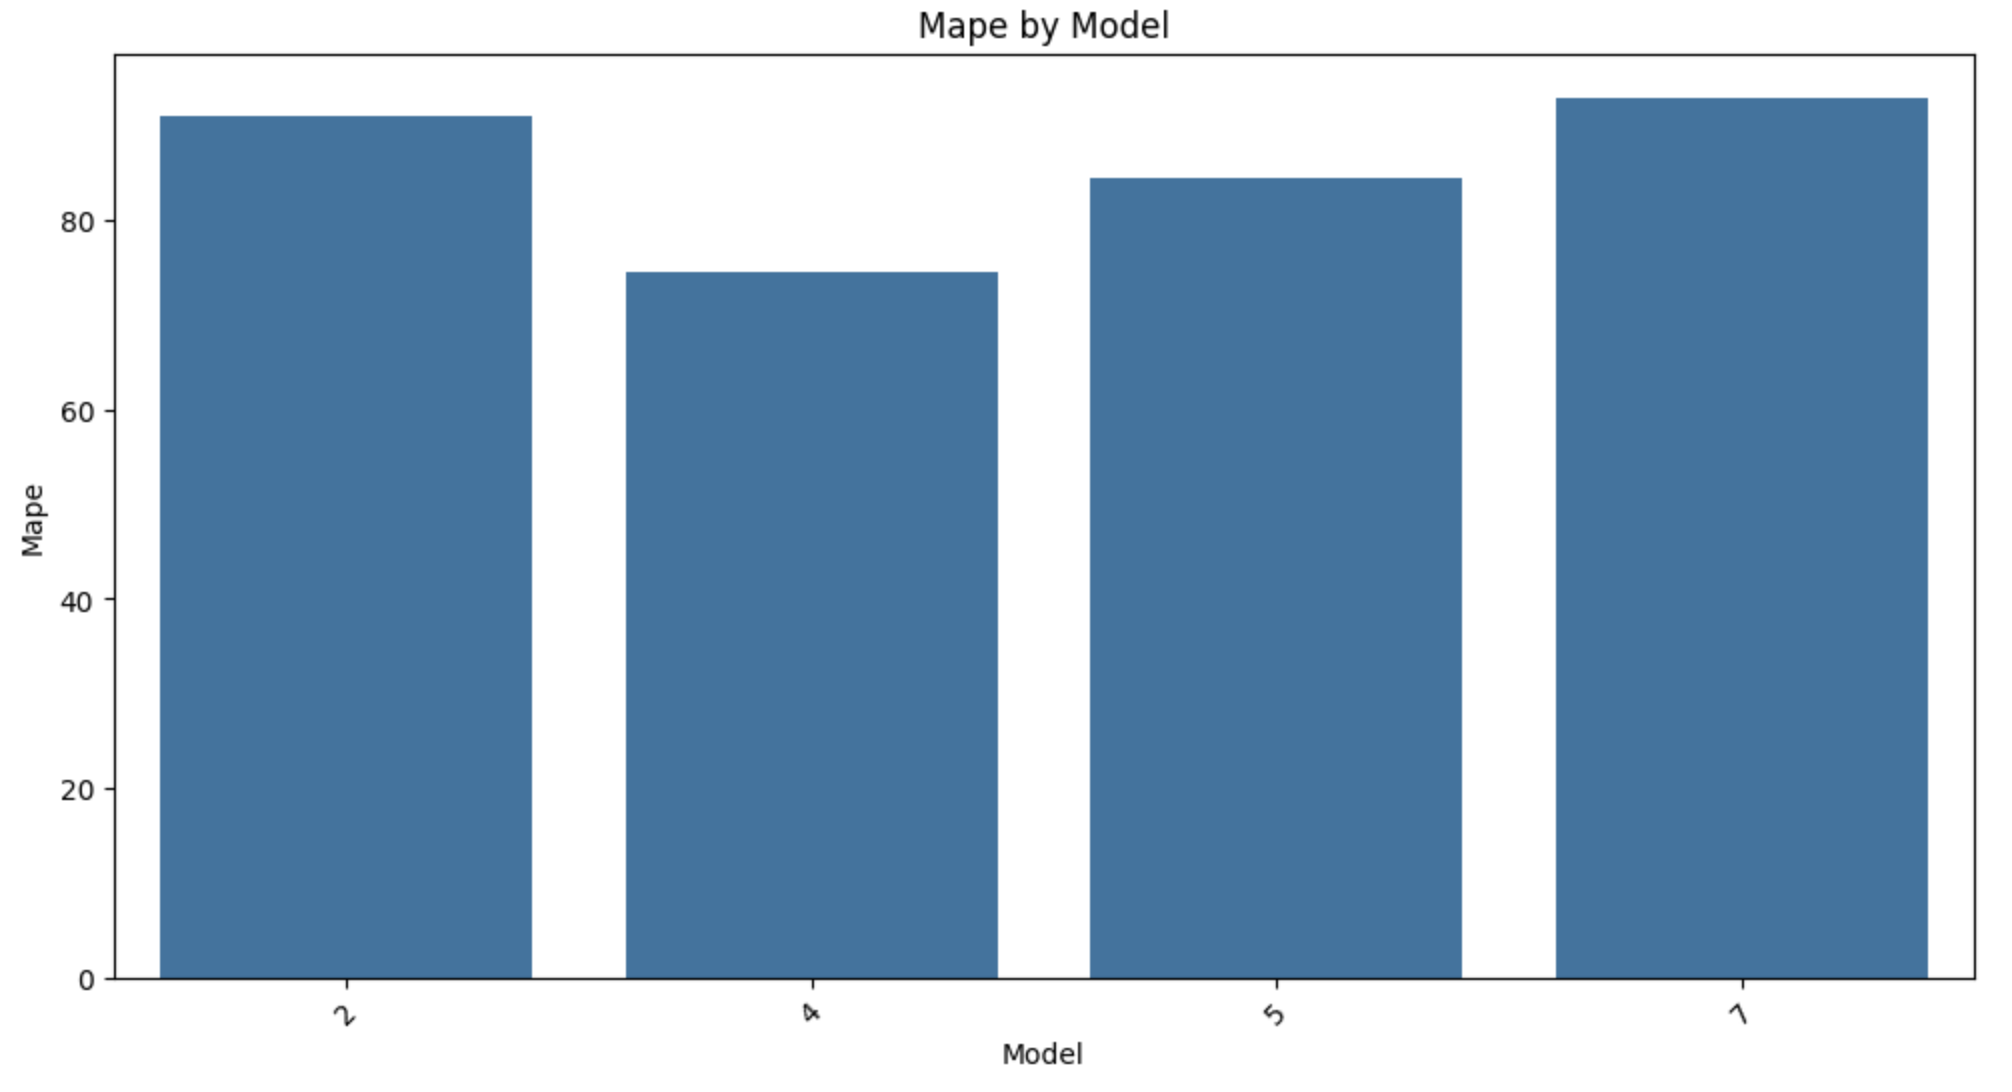
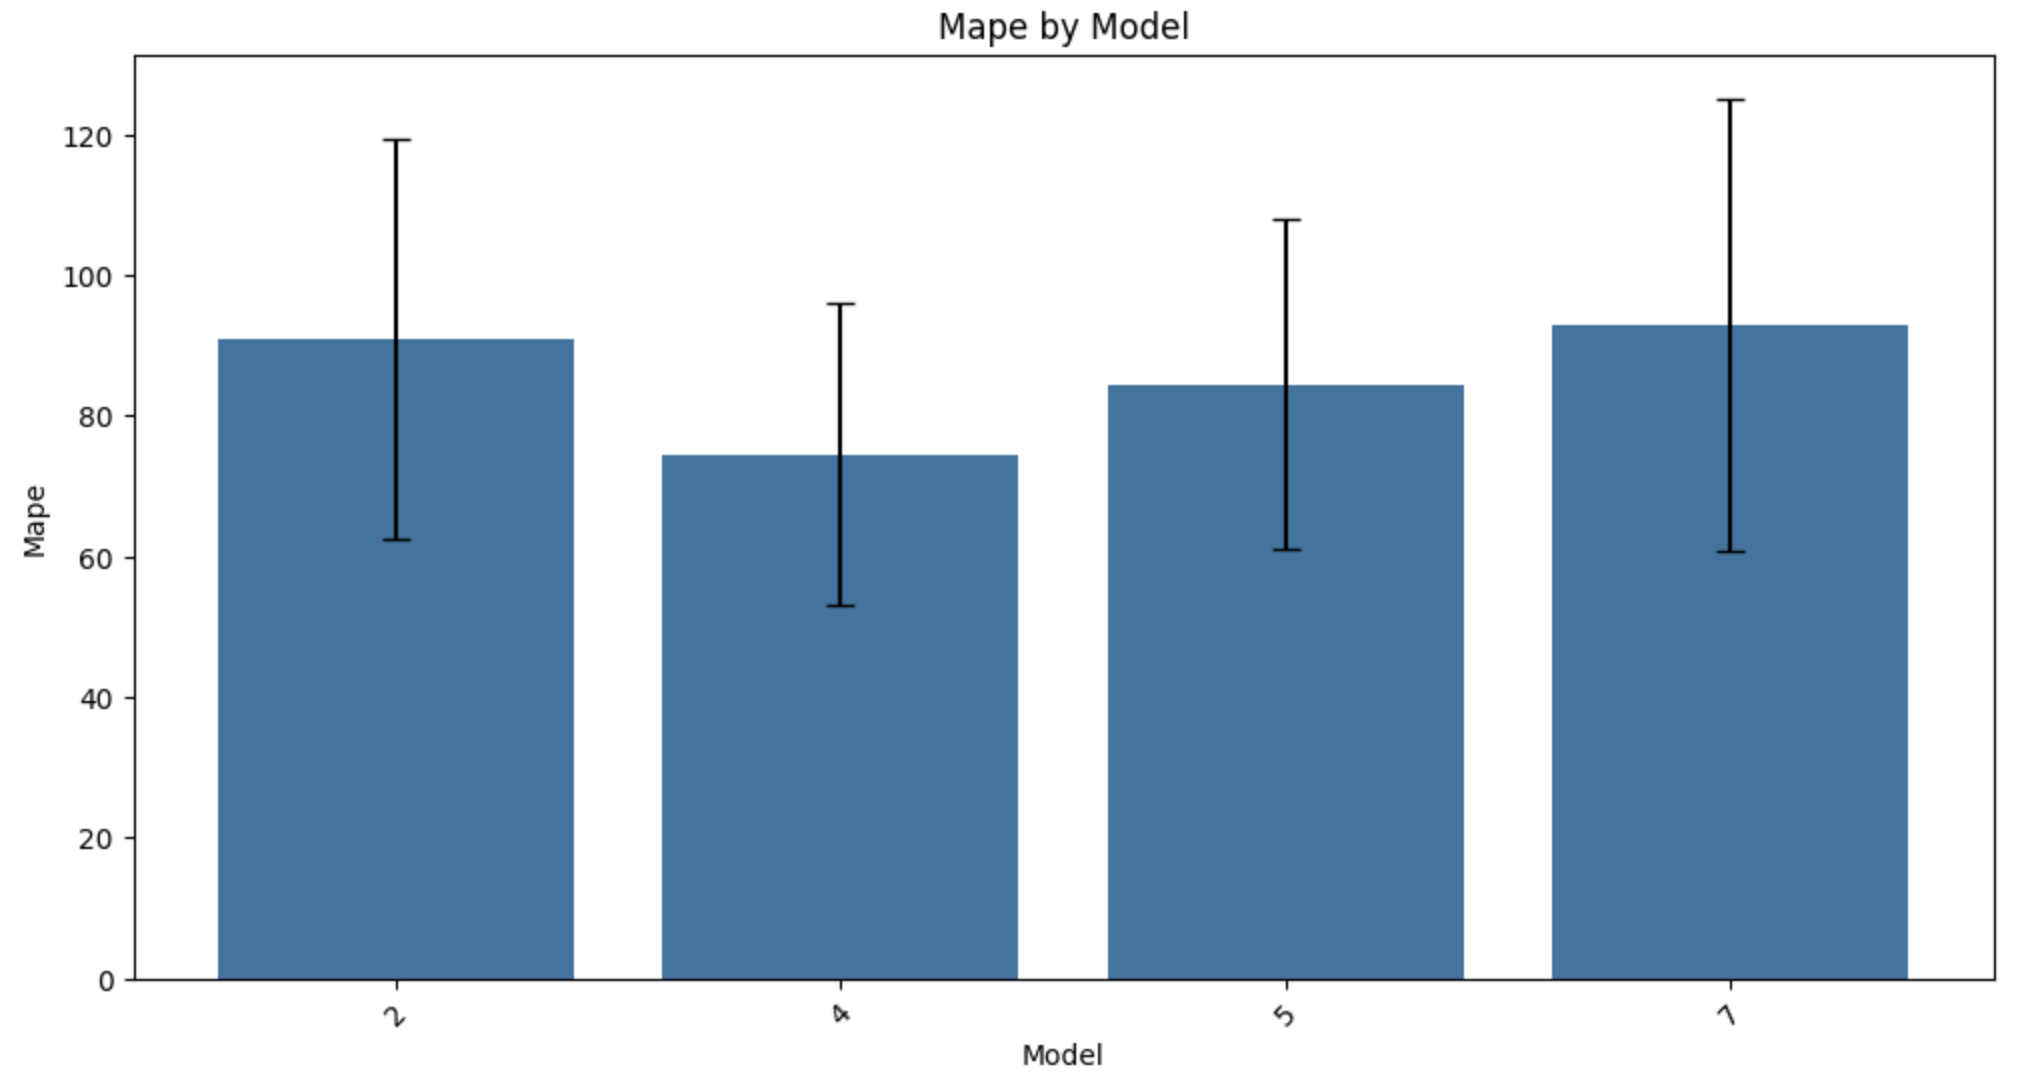
add CI + update README

diff --git a/handoff_eval/evaluation.py b/handoff_eval/evaluation.py
@@ -1,8 +1,9 @@
+import matplotlib.pyplot as plt
 import numpy as np
 import pandas as pd
-from sklearn.metrics import r2_score
-import matplotlib.pyplot as plt
 import seaborn as sns
+from scipy import stats
+from sklearn.metrics import r2_score
 
 # ----- Investigation plots -----
 
@@ -73,25 +74,106 @@ def compute_model_metrics_df(matched_pairs_dict, metric=None, error_type="mae"):
     return pd.DataFrame(data)
 
 
-def aggregate_by_model(df):
+def aggregate_by_model(df, confidence=None):
     """
-    Aggregates metric values by model, computing the mean across all examples.
+    Aggregates metric values by model, computing the mean and confidence interval across all examples.
 
     Parameters:
     - df: DataFrame containing ["example", "model", "value"].
+    - confidence: Confidence level for the interval. If None, no confidence interval is computed.
 
     Returns:
-    - plot_data: Aggregated DataFrame with mean values per model.
+    - plot_data: Aggregated DataFrame with mean values and confidence intervals per model (if applicable).
     - model_order: Sorted list of model names.
     """
-    plot_data = df.groupby("model", as_index=False)[
-        "value"
-    ].mean()  # Aggregate over examples
+    grouped = df.groupby("model")["value"]
+    means = grouped.mean()
+
+    plot_data = pd.DataFrame({"model": means.index, "mean_value": means.values})
+
+    if confidence is not None:
+        stds = grouped.std()
+        counts = grouped.count()
+        # - stats.t.ppf Student's t-distribution percent point function (inverse of CDF)
+        # - (1 + confidence) / 2.0 Example: If confidence=0.95, then (1 + 0.95) / 2 = 0.975, \
+        # which corresponds to the 97.5th percentile of the t-distribution
+        # - counts - 1 is the degrees of freedom (n-1), where counts represents \
+        # the number of data points for each model
+        ci_half_width = stats.t.ppf((1 + confidence) / 2.0, counts - 1) * (
+            stds / np.sqrt(counts)
+        )
+
+        plot_data["ci_lower"] = (means - ci_half_width).values
+        plot_data["ci_upper"] = (means + ci_half_width).values
+
     model_order = sorted(
         plot_data["model"].unique(), key=lambda x: int(x)
     )  # Order models numerically
 
     return plot_data, model_order
+
+
+def plot_model_metrics(df, x="example", metric_name="Metric Value", confidence=None):
+    """
+    Plots a DataFrame containing model evaluation metrics with optional confidence intervals.
+
+    Parameters:
+    - df: DataFrame containing ["example", "model", "value"].
+    - x: "example" to plot per example, or "model" to aggregate over all examples.
+    - confidence: Confidence level for the interval. If None, confidence intervals are not plotted.
+    """
+    valid_x_types = ["example", "model"]
+    if x not in valid_x_types:
+        x = "example"  # Default to example-based plotting
+
+    # Sort x-axis and hue before plotting
+    if x == "example":
+        x_label = x.capitalize()
+        example_order = sorted(df["example"].unique())  # Order examples alphabetically
+        model_order = sorted(
+            df["model"].unique(), key=lambda x: int(x)
+        )  # Order models numerically
+        plot_data = df
+    else:  # Aggregate by model
+        x_label = "Model"
+        plot_data, model_order = aggregate_by_model(df, confidence=confidence)
+
+    # Create bar plot
+    plt.figure(figsize=(12, 6))
+    ax = sns.barplot(
+        data=plot_data,
+        x=x if x == "example" else "model",
+        y="value" if x == "example" else "mean_value",
+        hue="model" if x == "example" else None,
+        order=example_order if x == "example" else model_order,
+    )
+
+    # Add error bars manually if confidence intervals are calculated
+    if x == "model" and confidence is not None:
+        for i, row in plot_data.iterrows():
+            ax.errorbar(
+                x=i,
+                y=row["mean_value"],
+                yerr=[
+                    [row["mean_value"] - row.get("ci_lower", row["mean_value"])],
+                    [row.get("ci_upper", row["mean_value"]) - row["mean_value"]],
+                ],
+                fmt="none",
+                ecolor="black",
+                capsize=5,
+            )
+
+    # Formatting
+    plt.xlabel(x_label)
+    plt.ylabel(metric_name)
+    plt.title(f"{metric_name} by {x_label}")
+    plt.xticks(rotation=45)
+
+    if x == "example":
+        plt.legend(title="Model")
+
+    # Show plot
+    plt.show()
 
 
 def filter_metrics(df_metrics, example_list=None, model_list=None):
@@ -115,11 +197,6 @@ def filter_metrics(df_metrics, example_list=None, model_list=None):
         filtered_df = filtered_df[filtered_df["model"].isin(model_list)]
 
     return filtered_df
-
-
-# Example usage:
-# df_metrics = add_metadata_to_metrics(df_metrics, ground_truth_data, lambda x: bucketize_word_count(x, 3), "word_count_bucket")
-# display(df_metrics) to visualize the updated dataframe
 
 
 def add_metadata_to_metrics(df_metrics, ground_truth_data, metadata_func, column_name):
@@ -147,55 +224,6 @@ def add_metadata_to_metrics(df_metrics, ground_truth_data, metadata_func, column
     df_metrics_copy[column_name] = df_metrics_copy["example"].map(metadata_dict)
 
     return df_metrics_copy
-
-
-def plot_model_metrics(df, x="example", metric_name="Metric Value"):
-    """
-    Plots a DataFrame containing model evaluation metrics.
-
-    Parameters:
-    - df: DataFrame containing ["example", "model", "value"].
-    - x: "example" to plot per example, or "model" to aggregate over all examples.
-    """
-    valid_x_types = ["example", "model"]
-    if x not in valid_x_types:
-        x = "example"  # Default to example-based plotting
-
-    # Sort x-axis and hue before plotting
-    if x == "example":
-        x_label = x.capitalize()
-        example_order = sorted(df["example"].unique())  # Order examples alphabetically
-        model_order = sorted(
-            df["model"].unique(), key=lambda x: int(x)
-        )  # Order models numerically
-        plot_data = df
-    else:  # Aggregate by model
-        x_label = "Model"
-        plot_data, model_order = aggregate_by_model(df)
-
-    # Create bar plot
-    plt.figure(figsize=(12, 6))
-    sns.barplot(
-        data=plot_data,
-        x=x,
-        y="value",
-        hue=(
-            "model" if x == "example" else None
-        ),  # Use hue for models only if plotting by example
-        order=example_order if x == "example" else model_order,
-    )
-
-    # Formatting
-    plt.xlabel(x_label)
-    plt.ylabel(metric_name)
-    plt.title(f"{metric_name} by {x_label}")
-    plt.xticks(rotation=45)
-
-    if x == "example":
-        plt.legend(title="Model")
-
-    # Show plot
-    plt.show()
 
 
 def plot_metric_by_metadata(df_metrics, error_type, x_column, hue_column=None):
@@ -234,13 +262,14 @@ def plot_metric_by_metadata(df_metrics, error_type, x_column, hue_column=None):
 
 
 # ---- Find best tradeoff ----
-def find_best_tradeoff_models(matched_pairs_dict, top_n=2):
+def find_best_tradeoff_models(matched_pairs_dict, top_n=2, confidence=None):
     """
     Finds the best tradeoff models based on highest recall and lowest MAPE.
 
     Parameters:
     - matched_pairs_dict (dict): Dictionary containing model evaluation data.
     - top_n (int): Number of top models to select.
+    - confidence (float or None): Confidence level for computing confidence intervals.
 
     Returns:
     - list: Intersection of top models based on highest recall and lowest MAPE.
@@ -251,8 +280,8 @@ def find_best_tradeoff_models(matched_pairs_dict, top_n=2):
     df_metrics_recall = compute_model_metrics_df(
         matched_pairs_dict, metric=None, error_type=error_type_recall
     )
-    agg_recall, _ = aggregate_by_model(df_metrics_recall)
-    top_recall_models = set(agg_recall.nlargest(top_n, "value")["model"])
+    agg_recall, _ = aggregate_by_model(df_metrics_recall, confidence=confidence)
+    top_recall_models = set(agg_recall.nlargest(top_n, "mean_value")["model"])
 
     # Compute MAPE metrics
     metric_mape = "rowTotalCostUsd"
@@ -260,8 +289,8 @@ def find_best_tradeoff_models(matched_pairs_dict, top_n=2):
     df_metrics_mape = compute_model_metrics_df(
         matched_pairs_dict, metric=metric_mape, error_type=error_type_mape
     )
-    agg_mape, _ = aggregate_by_model(df_metrics_mape)
-    best_mape_models = set(agg_mape.nsmallest(top_n, "value")["model"])
+    agg_mape, _ = aggregate_by_model(df_metrics_mape, confidence=confidence)
+    best_mape_models = set(agg_mape.nsmallest(top_n, "mean_value")["model"])
 
     # Find intersection of best models
     best_tradeoff_models = top_recall_models.intersection(best_mape_models)

diff --git a/README.md b/README.md
@@ -220,10 +220,11 @@ with open(eval_file_path, "wb") as f:
 **Recall** and **MAPE of `rowTotalCostUsd`** are the main KPIs. Here we can identify the model "4" as the best performer.
 
 ```python
+confidence=0.95
 x = "model"
 error_type = "recall"
 df_metrics = handoff_eval.evaluation.compute_model_metrics_df(matched_pairs_dict, metric=None, error_type=error_type)
-handoff_eval.evaluation.plot_model_metrics(df_metrics, x=x, metric_name=error_type.capitalize())
+handoff_eval.evaluation.plot_model_metrics(df_metrics, x=x, metric_name=error_type.capitalize(), confidence=confidence)
 ```
 
 ![Recall by model](images/recall_by_model.png)
@@ -232,7 +233,7 @@ handoff_eval.evaluation.plot_model_metrics(df_metrics, x=x, metric_name=error_ty
 metric = "rowTotalCostUsd"
 error_type = "mape"
 df_metrics = handoff_eval.evaluation.compute_model_metrics_df(matched_pairs_dict, metric=metric, error_type=error_type)
-handoff_eval.evaluation.plot_model_metrics(df_metrics, x=x, metric_name=error_type.capitalize())
+handoff_eval.evaluation.plot_model_metrics(df_metrics, x=x, metric_name=error_type.capitalize(), confidence=confidence)
 ```
 ![MAPE by model](images/mape_by_model.png)
 
@@ -241,7 +242,7 @@ handoff_eval.evaluation.plot_model_metrics(df_metrics, x=x, metric_name=error_ty
 ```python
 error_type = "precision"
 df_metrics = handoff_eval.evaluation.compute_model_metrics_df(matched_pairs_dict, metric=None, error_type=error_type)
-handoff_eval.evaluation.plot_model_metrics(df_metrics, x=x, metric_name=error_type.capitalize())
+handoff_eval.evaluation.plot_model_metrics(df_metrics, x=x, metric_name=error_type.capitalize(), confidence=confidence)
 ```
 
 ![Precision by model](images/precision_by_model.png)
@@ -250,9 +251,29 @@ handoff_eval.evaluation.plot_model_metrics(df_metrics, x=x, metric_name=error_ty
 
 ### Investigate more deeply
 
-We can also try to spot the problematic examples for each of our model:
+
+#### Performances for specific components of the total cost
+
+We can investigate the MAPE of the components of the total cost: `qty` and `rateUsd`:
+```python
+metric = "qty"
+error_type = "mape"
+df_metrics = handoff_eval.evaluation.compute_model_metrics_df(matched_pairs_dict, metric=metric, error_type=error_type)
+handoff_eval.evaluation.plot_model_metrics(df_metrics, x=x, metric_name=error_type.capitalize(), confidence=confidence)
+```
+
+```python
+metric = "rateUsd"
+error_type = "mape"
+df_metrics = handoff_eval.evaluation.compute_model_metrics_df(matched_pairs_dict, metric=metric, error_type=error_type)
+handoff_eval.evaluation.plot_model_metrics(df_metrics, x=x, metric_name=error_type.capitalize(), confidence=confidence)
+```
+
 
 #### Performance by example
+
+We can also try to spot the problematic examples for each of our model:
+
 ```python
 x = "example"
 error_type = "recall"
